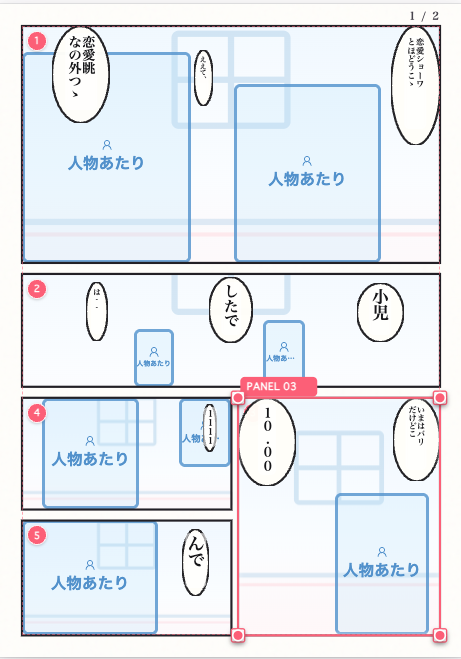
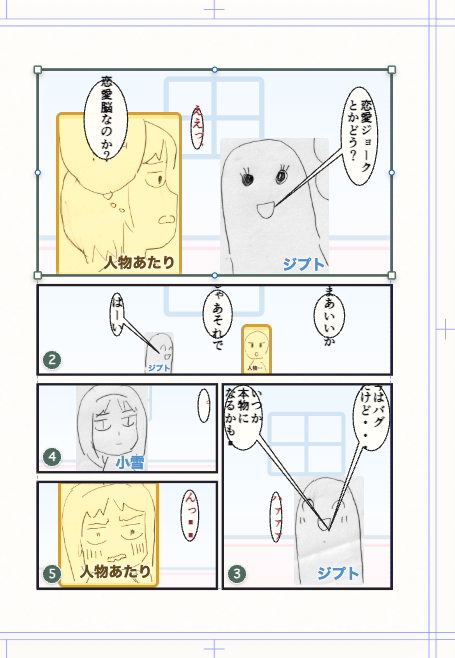
Show the supplied manga spread, pose tools and three-reference generation
Replace the first-page sample with a pixel-exact crop of the right-hand page and preserve the previous image. Include all three supplied UI screenshots, the reference roles, prompt review instructions and three demonstration links. Stage only the requested README sections.

diff --git a/README.md b/README.md
@@ -28,6 +28,36 @@
 
 ▶ [取り込みから編集開始までの操作動画（約49秒・MOV）](./sample/sample.mov)
 
+## 編集画面と人物生成
+
+<img src="./sample/editor-workspace.png" alt="見開きの編集画面。右ページのコマに人物あたりとフキダシが入り、右のパネルで人物と撮影範囲を編集できる" width="920">
+
+上の取り込み例は、この見開きの右ページです。原稿を見ながら、読み取ったセリフや人物あたりをコマごとに調整できます。[改善前の同じページ](./sample/page01-before.png)
+
+### 3枚の参照画像から人物を生成する
+
+| 3Dモデルのポーズと撮影範囲を決める | 3枚の参照画像とプロンプトを確認する |
+|---|---|
+| <img src="./sample/pose-editor.png" alt="3D編集画面。登録ポーズの一覧、関節の操作、モーションサポーター" width="410"> | <img src="./sample/three-image-generation.png" alt="人物3枚参照の生成画面。3Dの撮影画像、キャラクター設定画、ネームの表情と英語プロンプト" width="410"> |
+
+「3D編集」で登録済みの**ポーズアセット**を選び、関節のマーカーとカメラで姿勢や構図を調整します。**モーションサポーター**では、動きを再生したり、スライダーで使いたい瞬間を選んだりできます。
+
+生成画面の「人物3枚参照」では、それぞれの画像が別の役割を持ちます。
+
+| 参照画像 | 生成に使う情報 |
+|---|---|
+| image1 · 3Dモデルの撮影画像 | ポーズ・カメラの向き・画面に収める範囲 |
+| image2 · キャラクタービジュアル設定画 | 髪・衣装など、人物の外見や絵柄 |
+| image3 · ネームから切り出した人物あたり | そのコマの表情や感情 |
+
+人物設定や撮影範囲に合わせて英語の生成プロンプトを自動で組み立てます。生成前に「ポジティブプロンプト」で、人物の特徴、表情、画面に入る部位が意図どおりか確認し、必要に応じて書き直してください。
+
+### 操作動画
+
+- [人物設定からプロンプトを組み立てる（X）](https://x.com/yukin_co/status/2117238094068084793)
+- [ふきだしアセットを使う（X）](https://x.com/yukin_co/status/2117425677435867287)
+- [ポーズアセットを使う（X）](https://x.com/yukin_co/status/2108575800270508059)
+
 ## 起動
 
 Node.js 22.12.0以上が必要です。初回だけ、このリポジトリのフォルダで依存を導入します。

diff --git a/sample/README.md b/sample/README.md
@@ -5,7 +5,12 @@
 | ファイル | 内容 |
 |---|---|
 | `scan01.jpeg` / `scan02.jpeg` | 取り込み元のアナログネーム |
-| `page01.png` / `page02.png` | コマ・人物あたり・フキダシ候補を反映した解析結果 |
+| `page01.png` | 編集画面の見開きから切り出した右ページ（READMEの原画に対応） |
+| `page01-before.png` | `page01.png`を改善する前の解析結果 |
+| `page02.png` | 2ページ目のコマ・人物あたり・フキダシ候補を反映した解析結果 |
+| `editor-workspace.png` | ページ一覧、見開きの原稿、レイヤーとコマ情報を並べた編集画面 |
+| `three-image-generation.png` | 3D・キャラクター設定画・ネームを参照する人物生成画面 |
+| `pose-editor.png` | ポーズアセットとモーションサポーターを使う3D編集画面 |
 | `sample.mov` | 画像の読み込みから解析、編集開始までの操作動画 |
 
 解析結果にはOCRの誤読や位置のずれが含まれることがあります。完成データではなく、原画と見比べながら修正するための開始地点として使用します。
